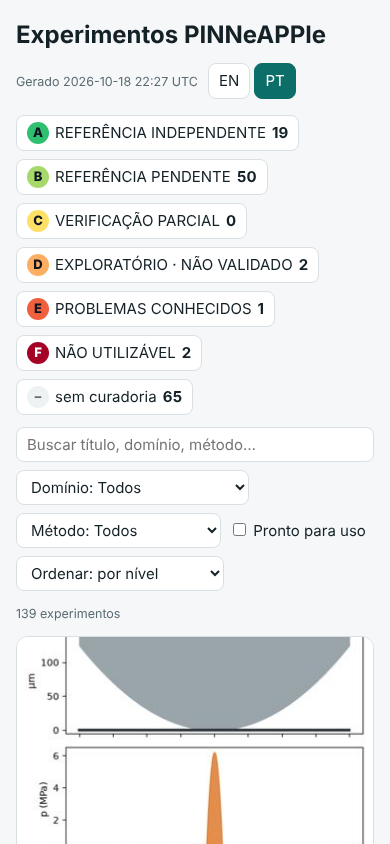
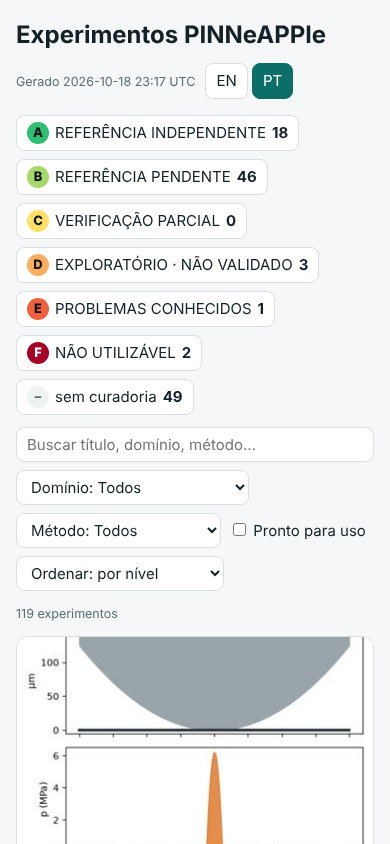
Experiments page: folders graded through their Lab items, each study once; coverage and screenshots refreshed

diff --git a/tests/test_experiments_site.py b/tests/test_experiments_site.py
@@ -61,9 +61,11 @@ def test_api_lists_every_experiment_of_the_coverage_list(server, lab_root):
     keys = {e["key"] for e in every["entries"]}
     for must in ("examples/flight_dynamics", "examples/enso_forecasting", "examples/near_random_forecasting",
                  "examples/black_hole_weather", "examples/modelica", "examples/electrodynamics",
-                 "em_pinn/em_tm_cavity", "rom_study/cylinder_wake", "calculix_case/plate_hole",
-                 "repo_results/ahmed_body", "repo_results/weather_era5"):
+                 "examples/weather_forecasting", "examples/studio", "examples/bricks",
+                 "em_pinn/em_tm_cavity", "rom_study/cylinder_wake", "calculix_case/plate_hole"):
         assert must in keys, must
+    folded = {i["key"] for e in every["entries"] for i in e.get("items", [])}
+    assert "repo_results/ahmed_body" in folded and not folded & keys      # each study counted once
     assert every["count"] == len(keys) == sum(every["counts"].values())     # counts counted from the list
     for m in M.example_dirs():
         assert os.path.relpath(m, REPO) in keys                              # every manifest is on the page
@@ -79,7 +81,7 @@ def test_filters(server):
     fl = api(server, "/api/experiments?domain=flight%20dynamics")
     assert [e["key"] for e in fl["entries"]] == ["examples/flight_dynamics"]
     q = api(server, "/api/experiments?q=ahmed")
-    assert "repo_results/ahmed_body" in {e["key"] for e in q["entries"]}
+    assert "examples/studio" in {e["key"] for e in q["entries"]}          # found through its Lab item
     r = api(server, "/api/experiments?ready=1")
     assert r["count"] > 0 and all(e["ready"] for e in r["entries"])
     pinn = api(server, "/api/experiments?method=PINN")
@@ -100,7 +102,10 @@ def test_detail_seal_stamped_figure_and_repo_files(server):
     st, ctype, body = get(server + fig["src"])
     assert ctype == "image/jpeg" and len(body) > 1000
     flight = api(server, "/api/experiment?key=examples/flight_dynamics")
-    assert flight["links"]["guide"] == "docs/guides/flight_dynamics.md" and flight["curate"]
+    assert flight["links"]["guide"] == "docs/guides/flight_dynamics.md" and flight["tier"] == "B"
+    assert flight["items"][0]["key"] == "manifest/examples/flight_dynamics" and flight["stages"]   # from its results
+    modelica = api(server, "/api/experiment?key=examples/modelica")
+    assert modelica["tier"] is None and modelica["curate"] == "python -m pinneapple_lab register examples/modelica"
     with pytest.raises(urllib.error.HTTPError) as err:
         get(server + "/repo/pyproject.toml")                  # only files a manifest lists are served
     assert err.value.code == 404
@@ -162,14 +167,15 @@ def test_page_in_a_browser(server):
         page.click('[data-letter="F"]')
         assert page.locator(".card").count() == int(page.locator('[data-letter="F"] b').inner_text())
         page.click('[data-letter="F"]')
-        page.goto(server + "/experiments#e=repo_results%2Fahmed_body")
+        page.goto(server + "/experiments#e=examples%2Fflight_dynamics")
         page.wait_for_selector("#detail.on h2")
-        assert "Ahmed" in page.locator("#detail h2").inner_text()
+        assert "Flight" in page.locator("#detail h2").inner_text()
+        assert page.locator("#detail table").count() >= 2                    # trust card and metrics
         if shots:
             page.screenshot(path=os.path.join(shots, "experiment_detail.png"), full_page=True)
         page.goto(server + "/experiments#e=em_pinn%2Fem_tm_cavity")
         page.wait_for_selector("#detail.on .problem")
-        assert page.locator("ol.next code").count() > 0
+        assert page.locator("ol.next code").count() == 3                     # 3 shared actions, listed once
         if shots:
             page.screenshot(path=os.path.join(shots, "experiment_F_next_steps.png"), full_page=True)
         page.click('[data-lang="pt"]')

diff --git a/pinneapple_lab/explorer.py b/pinneapple_lab/explorer.py
@@ -146,7 +146,7 @@ def _manifest_entry(path: str, m: M.Manifest, cur: dict[str, Any], root: str) ->
     base = os.path.dirname(path)
     rel = os.path.relpath(base, M.REPO)
     items = cur.get("items", {})
-    keys = M.lab_items_for(rel, cur)                               # best letter first
+    keys = M.lab_items_for(m.id, cur)                              # best letter first (the id is the folder path)
     tier = items[keys[0]]["tier"] if keys else None
     media = [{"kind": "figure", "repo": f"{rel}/{f}", "name": os.path.basename(f)} for f in m.files.get("figures", [])
              if f.lower().endswith(FIG_EXT)]
@@ -195,7 +195,7 @@ def collect(store, examples: str | None = None) -> dict[str, Any]:
         cur = curate(store)
     items = cur.get("items", {})
     folders = [(p, m) for p, m in M.scan([examples or os.path.join(M.REPO, "examples")], lab="")]
-    folded = {k for p, _ in folders for k in M.lab_items_for(os.path.relpath(os.path.dirname(p), M.REPO), cur)}
+    folded = {k for _, m in folders for k in M.lab_items_for(m.id, cur)}
     entries = []
     for key, rec in sorted(items.items()):
         if key in folded or rec.get("experiment") == "example_script":

diff --git a/docs/lab/coverage.md b/docs/lab/coverage.md
@@ -1,10 +1,10 @@
 # Experiments coverage
 
-Generated by `python -m pinneapple_lab coverage` from the Lab curation of 2026-10-18 21:57 UTC and the experiment manifests: 139 experiments, 74 curated, 65 not curated.
+Generated by `python -m pinneapple_lab coverage` from the Lab curation of 2026-10-18 23:14 UTC and the experiment manifests: 119 experiments, 70 curated, 49 not curated.
 
 | experiment | source | curated | letter | how to curate |
 |---|---|---|---|---|
-| Accretion_flow (`accretion_flow`) | lab | yes | B |  |
+| Accretion flow (`accretion_flow`) | lab | yes | B |  |
 | 60/40 brass (`bar_wear/60/40 brass`) | lab | yes | A |  |
 | PTFE (`bar_wear/PTFE`) | lab | yes | A |  |
 | Ferritic stainless steel (`bar_wear/ferritic stainless steel`) | lab | yes | A |  |
@@ -13,15 +13,15 @@ Generated by `python -m pinneapple_lab coverage` from the Lab curation of 2026-1
 | Polyethylene (`bar_wear/polyethylene`) | lab | yes | A |  |
 | Stellite (`bar_wear/stellite`) | lab | yes | A |  |
 | Bar-end wear, WC (`bar_wear/tungsten carbide`) | lab | yes | A |  |
-| Bar_wear_ranking (`bar_wear_ranking`) | lab | yes | B |  |
+| Bar wear ranking (`bar_wear_ranking`) | lab | yes | B |  |
 | Bumper crash (`benchmark_case/bumper_crash`) | lab | yes | B |  |
 | Heated channel (`benchmark_case/heated_channel`) | lab | yes | B |  |
-| Pdr (`benchmark_case/pdr`) | lab | yes | B |  |
+| PDR (`benchmark_case/pdr`) | lab | yes | B |  |
 | Shock train (`benchmark_case/shock_train`) | lab | yes | B |  |
 | Soil twin (`benchmark_case/soil_twin`) | lab | yes | B |  |
-| Sst (`benchmark_case/sst`) | lab | yes | B |  |
+| SST (`benchmark_case/sst`) | lab | yes | B |  |
 | Terramechanics (`benchmark_case/terramechanics`) | lab | yes | B |  |
-| Bondi_accretion (`bondi_accretion`) | lab | yes | B |  |
+| Bondi accretion (`bondi_accretion`) | lab | yes | B |  |
 | Bridge (`bricks/bridge`) | lab | yes | B |  |
 | Cantilever (`bricks/cantilever`) | lab | yes | B |  |
 | Tower (`bricks/tower`) | lab | yes | B |  |
@@ -30,48 +30,44 @@ Generated by `python -m pinneapple_lab coverage` from the Lab curation of 2026-1
 | L-bracket, CalculiX (`calculix_case/l_bracket`) | lab | yes | A |  |
 | Modal cantilever (`calculix_case/modal_cantilever`) | lab | yes | B |  |
 | Plate with a hole (`calculix_case/plate_hole`) | lab | yes | A |  |
-| Car_lbm (`car_lbm`) | lab | yes | B |  |
-| Cylinder_lbm (`cylinder_lbm`) | lab | yes | B |  |
-| Em skin effect (`em_pinn/em_skin_effect`) | lab | yes | B |  |
-| Em tm cavity (`em_pinn/em_tm_cavity`) | lab | yes | F |  |
-| Em two dielectric capacitor (`em_pinn/em_two_dielectric_capacitor`) | lab | yes | F |  |
-| Em wire az (`em_pinn/em_wire_az`) | lab | yes | B |  |
+| Car LBM (`car_lbm`) | lab | yes | B |  |
+| Cylinder LBM (`cylinder_lbm`) | lab | yes | B |  |
+| EM skin effect (`em_pinn/em_skin_effect`) | lab | yes | B |  |
+| EM TM cavity (`em_pinn/em_tm_cavity`) | lab | yes | F |  |
+| EM two dielectric capacitor (`em_pinn/em_two_dielectric_capacitor`) | lab | yes | F |  |
+| EM wire Az (`em_pinn/em_wire_az`) | lab | yes | B |  |
+| PINNeAPPle Arena — Examples (`examples/benchmark_suite`) | manifest | yes | B |  |
+| Black-hole weather: forecasting the gas around a black hole, and knowing for how long to trust it (`examples/black_hole_weather`) | manifest | yes | B |  |
+| Self-modifying brick builds (`examples/bricks`) | manifest | yes | B |  |
+| Design from intent (`examples/design_from_intent`) | manifest | yes | B |  |
+| Electrodynamics & Electromagnetics Examples (`examples/electrodynamics`) | manifest | yes | A |  |
+| Predicting El Niño: physical, physics-informed, data-driven and hybrid models under one protocol (`examples/enso_forecasting`) | manifest | yes | B |  |
+| Flight dynamics, turbulence and take-off (`examples/flight_dynamics`) | manifest | yes | B |  |
 | Getting Started Examples — Tier 1: Explorer (`examples/getting_started`) | manifest | yes | D |  |
-| Heat_xtfc (`heat_xtfc`) | lab | yes | B |  |
-| Kepler_law (`kepler_law`) | lab | yes | B |  |
-| Lorenz_discovery (`lorenz_discovery`) | lab | yes | B |  |
+| Engineering hand-off cases (`examples/handoff_cases`) | manifest | yes | B |  |
+| MeshGraphNet in PINNeAPPle (`examples/meshgraphnet`) | manifest | yes | B |  |
+| Audit: electric-motor magnetics and topology optimization (`examples/motor_magnetics`) | manifest | yes | B |  |
+| Forecasting near-random series without overfitting (`examples/near_random_forecasting`) | manifest | yes | B |  |
+| Pinneapple and physicsnemo (`examples/pinneapple_and_physicsnemo`) | manifest | yes | D |  |
+| Animation-centred dashboards (`examples/studio`) | manifest | yes | A |  |
+| Audit: electric-motor magnetics and topology optimization (`examples/topology_optimization`) | manifest | yes | B |  |
+| Lunar rover terramechanics in 3D (`examples/use_cases`) | manifest | yes | B |  |
+| Weather forecasting on ERA5: how many days a model is good for, and extreme events (`examples/weather_forecasting`) | manifest | yes | D |  |
+| Heat X-TFC (`heat_xtfc`) | lab | yes | B |  |
+| Kepler law (`kepler_law`) | lab | yes | B |  |
+| Lorenz discovery (`lorenz_discovery`) | lab | yes | B |  |
 | Oscillator (`oscillator`) | lab | yes | B |  |
-| Oscillator_discovery (`oscillator_discovery`) | lab | yes | B |  |
+| Oscillator discovery (`oscillator_discovery`) | lab | yes | B |  |
 | Stirred tank, particles (`particle_suspension`) | lab | yes | A |  |
-| Pendulum_video (`pendulum_video`) | lab | yes | B |  |
+| Pendulum video (`pendulum_video`) | lab | yes | B |  |
 | 90° pipe bend (`pipe_flow/bend_90`) | lab | yes | A |  |
 | Kenics static mixer (`pipe_flow/kenics_mixer`) | lab | yes | B |  |
 | Laminar pipe flow (`pipe_flow/laminar_pipe`) | lab | yes | A |  |
-| Ahmed body, OpenFOAM (`repo_results/ahmed_body`) | lab | yes | A |  |
-| NACA 2412, OpenFOAM (`repo_results/airfoil_handoff`) | lab | yes | B |  |
 | Airfoil surrogate (`repo_results/airfoil_surrogate`) | lab | yes | B |  |
 | A320-class airliner, CFD (`repo_results/airliner_cfd`) | lab | yes | B |  |
 | Benchmark arena (`repo_results/benchmark_arena`) | lab | yes | E |  |
-| Bh forecast (`repo_results/bh_forecast`) | lab | yes | B |  |
-| Burgers pinn (`repo_results/burgers_pinn`) | lab | yes | B |  |
-| Concorde aoa (`repo_results/concorde_aoa`) | lab | yes | B |  |
-| Design from intent (`repo_results/design_from_intent`) | lab | yes | B |  |
-| Electromagnetics, FDTD (`repo_results/em_verification`) | lab | yes | A |  |
-| Fin inverse 2d (`repo_results/fin_inverse_2d`) | lab | yes | B |  |
-| Fin inverse 3d (`repo_results/fin_inverse_3d`) | lab | yes | B |  |
-| Free surface trough (`repo_results/free_surface_trough`) | lab | yes | B |  |
 | Heatsink surrogate (`repo_results/heatsink_surrogate`) | lab | yes | B |  |
-| Lbm strouhal (`repo_results/lbm_strouhal`) | lab | yes | B |  |
-| Lunar rover, terramechanics (`repo_results/lunar_rover`) | lab | yes | B |  |
-| Meshgraphnet (`repo_results/meshgraphnet`) | lab | yes | B |  |
-| Motor spm (`repo_results/motor_spm`) | lab | yes | B |  |
-| Near random forecasting (`repo_results/near_random_forecasting`) | lab | yes | B |  |
-| Prius drive (`repo_results/prius_drive`) | lab | yes | B |  |
-| Prius end effects (`repo_results/prius_end_effects`) | lab | yes | B |  |
-| Prius motor, magnetic field (`repo_results/prius_pmsm`) | lab | yes | A |  |
-| Prius thermal demag (`repo_results/prius_thermal_demag`) | lab | yes | B |  |
-| Topology optimization (`repo_results/topology_optimization`) | lab | yes | B |  |
-| Weather era5 (`repo_results/weather_era5`) | lab | yes | D |  |
+| LBM strouhal (`repo_results/lbm_strouhal`) | lab | yes | B |  |
 | Beam parametric (`rom_study/beam_parametric`) | lab | yes | B |  |
 | Cylinder wake, ROM (`rom_study/cylinder_wake`) | lab | yes | B |  |
 | Cantilever beam (`solid_fem/cantilever`) | lab | yes | A |  |
@@ -81,35 +77,24 @@ Generated by `python -m pinneapple_lab coverage` from the Lab curation of 2026-1
 | Pinneapple Models — Showcase Examples (`examples/architectures`) | manifest | no |  | `python -m pinneapple_lab register examples/architectures` |
 | 00_list_datasets.py — List and inspect all available PINNeAPPle datasets (`examples/arena_pipelines`) | manifest | no |  | `python -m pinneapple_lab register examples/arena_pipelines` |
 | Running a benchmark (`examples/benchmark`) | manifest | no |  | `python -m pinneapple_lab register examples/benchmark` |
-| PINNeAPPle Arena — Examples (`examples/benchmark_suite`) | manifest | no |  | `python -m pinneapple_lab register examples/benchmark_suite` |
-| Black-hole weather: forecasting the gas around a black hole, and knowing for how long to trust it (`examples/black_hole_weather`) | manifest | no |  | `python -m pinneapple_lab register examples/black_hole_weather` |
-| Self-modifying brick builds (`examples/bricks`) | manifest | no |  | `python -m pinneapple_lab register examples/bricks` |
 | Viga em balanço (CalculiX) (`examples/calculix_cantilever`) | manifest | no |  | `python -m pinneapple_lab register examples/calculix_cantilever` |
 | Core primitives: Domain, Geometry, Mesh, Field (`examples/core_primitives`) | manifest | no |  | `python -m pinneapple_lab register examples/core_primitives` |
 | Training Pipeline (`examples/data_api`) | manifest | no |  | `python -m pinneapple_lab register examples/data_api` |
 | Project Layout (`examples/data_pipeline`) | manifest | no |  | `python -m pinneapple_lab register examples/data_pipeline` |
-| Design from intent (`examples/design_from_intent`) | manifest | no |  | `python -m pinneapple_lab register examples/design_from_intent` |
-| Electrodynamics & Electromagnetics Examples (`examples/electrodynamics`) | manifest | no |  | `python -m pinneapple_lab register examples/electrodynamics` |
 | End to end (`examples/end_to_end`) | manifest | no |  | `python -m pinneapple_lab register examples/end_to_end` |
-| Predicting El Niño: physical, physics-informed, data-driven and hybrid models under one protocol (`examples/enso_forecasting`) | manifest | no |  | `python -m pinneapple_lab register examples/enso_forecasting` |
 | Your first PINNeAPPle result in about a minute on a laptop CPU: solve Burgers' equation with a… (`examples/first_example`) | manifest | no |  | `python -m pinneapple_lab register examples/first_example` |
-| Flight dynamics, turbulence and take-off (`examples/flight_dynamics`) | manifest | no |  | `python -m pinneapple_lab register examples/flight_dynamics` |
 | Free-surface flow (interFoam, VOF) (`examples/free_surface`) | manifest | no |  | `python -m pinneapple_lab register examples/free_surface` |
 | Geomechanics with the material point method (`examples/geomechanics`) | manifest | no |  | `python -m pinneapple_lab register examples/geomechanics` |
 | pinneapple_geom examples (`examples/geometry`) | manifest | no |  | `python -m pinneapple_lab register examples/geometry` |
 | Geometry library (`examples/geometry_library`) | manifest | no |  | `python -m pinneapple_lab register examples/geometry_library` |
 | Earth-system blocks in one script (about one minute on a laptop CPU): 1 (`examples/geophysics`) | manifest | no |  | `python -m pinneapple_lab register examples/geophysics` |
-| Engineering hand-off cases (`examples/handoff_cases`) | manifest | no |  | `python -m pinneapple_lab register examples/handoff_cases` |
 | pinneapple_researcher examples (`examples/hpo_experiments`) | manifest | no |  | `python -m pinneapple_lab register examples/hpo_experiments` |
 | pinneapple_analysis.inspection example 01: eddy-current NDE end to end (`examples/inspection`) | manifest | no |  | `python -m pinneapple_lab register examples/inspection` |
 | A latent surrogate that says when not to trust it (`examples/latent`) | manifest | no |  | `python -m pinneapple_lab register examples/latent` |
 | Lattice Boltzmann wind tunnel and the FluidX3D bridge (`examples/lbm`) | manifest | no |  | `python -m pinneapple_lab register examples/lbm` |
-| MeshGraphNet in PINNeAPPle (`examples/meshgraphnet`) | manifest | no |  | `python -m pinneapple_lab register examples/meshgraphnet` |
 | Pre-trained models and datasets (`pp.zoo`, `pp.datasets`) (`examples/model_zoo`) | manifest | no |  | `python -m pinneapple_lab register examples/model_zoo` |
 | Modelica models as Physics AI data (`examples/modelica`) | manifest | no |  | `python -m pinneapple_lab register examples/modelica` |
 | Molecular visualisation: proteins on metal surfaces (`examples/molecular`) | manifest | no |  | `python -m pinneapple_lab register examples/molecular` |
-| Audit: electric-motor magnetics and topology optimization (`examples/motor_magnetics`) | manifest | no |  | `python -m pinneapple_lab register examples/motor_magnetics` |
-| Forecasting near-random series without overfitting (`examples/near_random_forecasting`) | manifest | no |  | `python -m pinneapple_lab register examples/near_random_forecasting` |
 | Exceptional-point tuning in PT-symmetric dimers: the no-go theorem (Zenodo 23287622) checked… (`examples/non_hermitian`) | manifest | no |  | `python -m pinneapple_lab register examples/non_hermitian` |
 | pinneapple_solvers examples (`examples/numerical_solvers`) | manifest | no |  | `python -m pinneapple_lab register examples/numerical_solvers` |
 | OpenFOAM parameter campaign (`examples/openfoam_campaign`) | manifest | no |  | `python -m pinneapple_lab register examples/openfoam_campaign` |
@@ -121,7 +106,6 @@ Generated by `python -m pinneapple_lab coverage` from the Lab curation of 2026-1
 | Model (`examples/physics_module`) | manifest | no |  | `python -m pinneapple_lab register examples/physics_module` |
 | PhysicsOptimizer (`examples/physics_optimizer`) | manifest | no |  | `python -m pinneapple_lab register examples/physics_optimizer` |
 | pinneapple_physics.pinn_solver examples (`examples/pinn_solver`) | manifest | no |  | `python -m pinneapple_lab register examples/pinn_solver` |
-| Pinneapple and physicsnemo (`examples/pinneapple_and_physicsnemo`) | manifest | no |  | `python -m pinneapple_lab register examples/pinneapple_and_physicsnemo` |
 | 01_pde_comparison.py — PINNeAPPle PDE Architecture Benchmark Three canonical PDEs, three… (`examples/pinneapple_benchmark`) | manifest | no |  | `python -m pinneapple_lab register examples/pinneapple_benchmark` |
 | 01_spring_mass_pinn.py — 2-DOF Coupled Spring-Mass System with Two PINN Models Physical system… (`examples/pinneapple_cosim`) | manifest | no |  | `python -m pinneapple_lab register examples/pinneapple_cosim` |
 | pinneapple_problemdesign examples (`examples/problem_designer`) | manifest | no |  | `python -m pinneapple_lab register examples/problem_designer` |
@@ -131,15 +115,11 @@ Generated by `python -m pinneapple_lab coverage` from the Lab curation of 2026-1
 | Security for scientific and industrial Physics AI (`pinneapple_security`) (`examples/security`) | manifest | no |  | `python -m pinneapple_lab register examples/security` |
 | Solver (`examples/solver_api`) | manifest | no |  | `python -m pinneapple_lab register examples/solver_api` |
 | Examples: time-series decomposition solvers (`examples/solvers`) | manifest | no |  | `python -m pinneapple_lab register examples/solvers` |
-| Animation-centred dashboards (`examples/studio`) | manifest | no |  | `python -m pinneapple_lab register examples/studio` |
 | Component registry + toolbox + physics-informed fit, end to end (`examples/systems`) | manifest | no |  | `python -m pinneapple_lab register examples/systems` |
 | PINNeAPPle Time Series Examples (`examples/time_series`) | manifest | no |  | `python -m pinneapple_lab register examples/time_series` |
-| Audit: electric-motor magnetics and topology optimization (`examples/topology_optimization`) | manifest | no |  | `python -m pinneapple_lab register examples/topology_optimization` |
 | pinneapple_train example 02: DataModule + robust preprocessing (`examples/trainer`) | manifest | no |  | `python -m pinneapple_lab register examples/trainer` |
-| Lunar rover terramechanics in 3D (`examples/use_cases`) | manifest | no |  | `python -m pinneapple_lab register examples/use_cases` |
 | Red team / blue team for the validation checks (`examples/validation`) | manifest | no |  | `python -m pinneapple_lab register examples/validation` |
 | Red team / blue team for the validation checks (`examples/validation_arena`) | manifest | no |  | `python -m pinneapple_lab register examples/validation_arena` |
 | Run all PINNeAPPle visualization examples (`examples/visualizations`) | manifest | no |  | `python -m pinneapple_lab register examples/visualizations` |
 | PINNeAPPle vs PhysicsNeMo — Comparison & Integration Guide (`examples/vs_physicsnemo`) | manifest | no |  | `python -m pinneapple_lab register examples/vs_physicsnemo` |
-| Weather forecasting on ERA5: how many days a model is good for, and extreme events (`examples/weather_forecasting`) | manifest | no |  | `python -m pinneapple_lab register examples/weather_forecasting` |
 | Physics World Model — end-to-end example (`examples/worldmodel`) | manifest | no |  | `python -m pinneapple_lab register examples/worldmodel` |

diff --git a/CHANGELOG.md b/CHANGELOG.md
@@ -44,7 +44,8 @@ How this file is maintained is described in [CONTRIBUTING.md](CONTRIBUTING.md#ch
   sort, per-letter counts, detail pages, EN/PT, mobile layout. Served at `/experiments` with `/api/experiments`,
   `/api/experiment`, `/api/coverage`, `/stamped/...`, `/seal.png`, `/repo/...` (behind the Lab login); static export
   `python -m pinneapple_lab site --out <dir>`; coverage list `python -m pinneapple_lab coverage`
-  (`docs/lab/coverage.md`: 139 experiments, 74 curated, 65 not curated). The Lab image sets `PINNEAPPLE_REPO`;
+  (`docs/lab/coverage.md`: 119 experiments, 70 curated, 49 not curated; a Lab item that grades an `examples/*`
+  folder is shown inside that folder's entry, so each study is counted once). Shared next steps listed once. The Lab image sets `PINNEAPPLE_REPO`;
   deploy steps in `apps/deploy/README.md`.
 - Experiment manifests (`pinneapple_lab.manifest`, format `pinneapple.experiment/1`): one `experiment.json` per
   experiment that the curation, the experiments site and the Flow Studio read through one loader (Lab run folders
